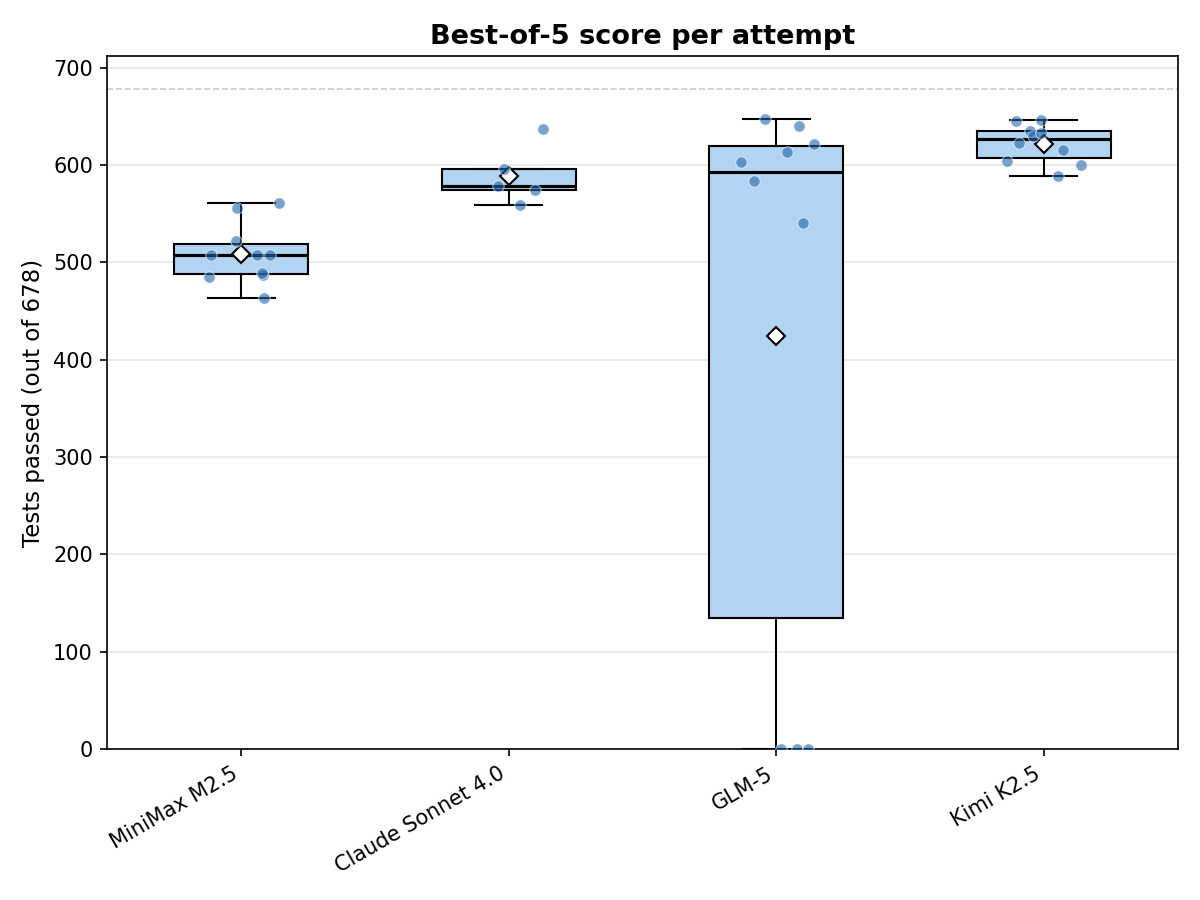
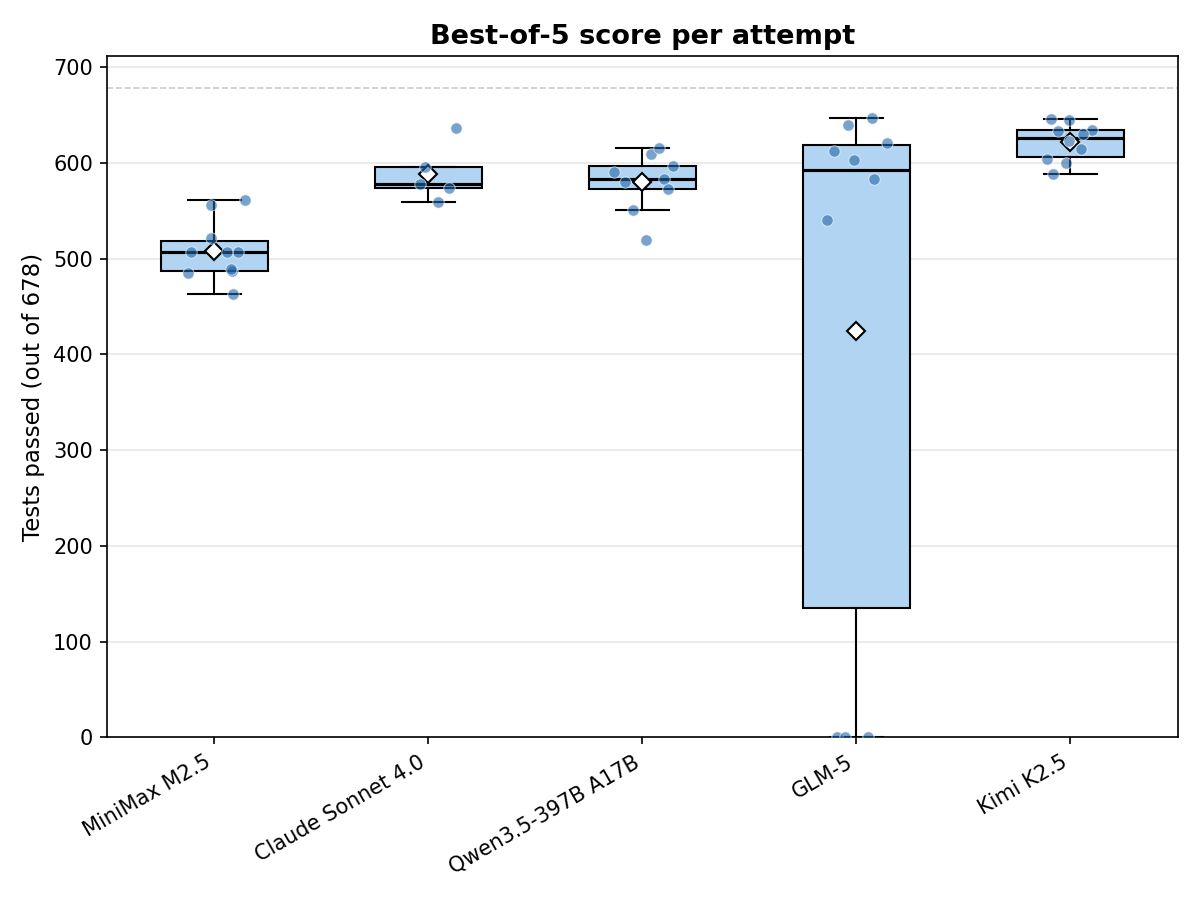
Add Qwen3.5-397B-A17B (local GGUF IQ3_XXS) results, regenerate charts
New model: Qwen3.5-397B-A17B on toml-1.0-cpp
- 9 attempts, best-of-5 avg 580.0/678 (85.5%)
- Very consistent: only 1/9 attempts had 0 first-turn, range 520–616
- 1 infrastructure timeout failure
- Competitive with Claude Sonnet 4.0 (588.8 avg) despite running as
  a heavily quantized local model (IQ3_XXS)

Updated plot_comparison.py MODEL_CONFIG to include Qwen3.5-397B A17B
in the "local" category.

Regenerated:
- results/toml-1.0-cpp/summary.txt (now 5 models)
- results/toml-1.0-cpp/chart.png
- results/comparison.png

diff --git a/plot_comparison.py b/plot_comparison.py
@@ -23,6 +23,7 @@ MODEL_CONFIG = OrderedDict([
     ("MiniMax M2.5",         "api"),
     ("Devstral",             "api"),
     ("GPT-oss-120B F16",     "local"),
+    ("Qwen3.5-397B A17B",    "local"),
     ("Qwen3.5-122B Q8",      "local"),
 ])
 
